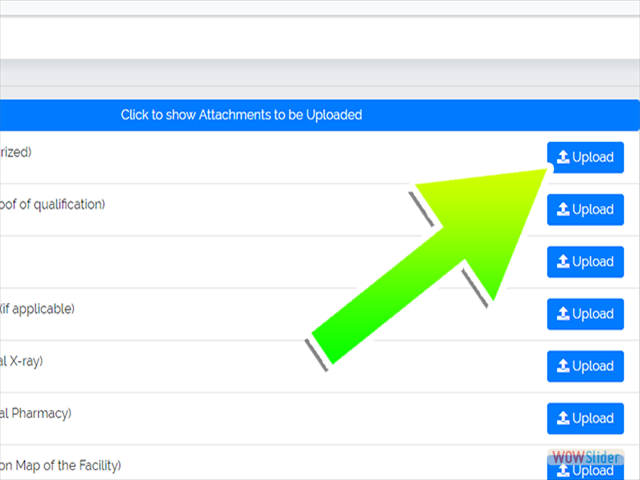
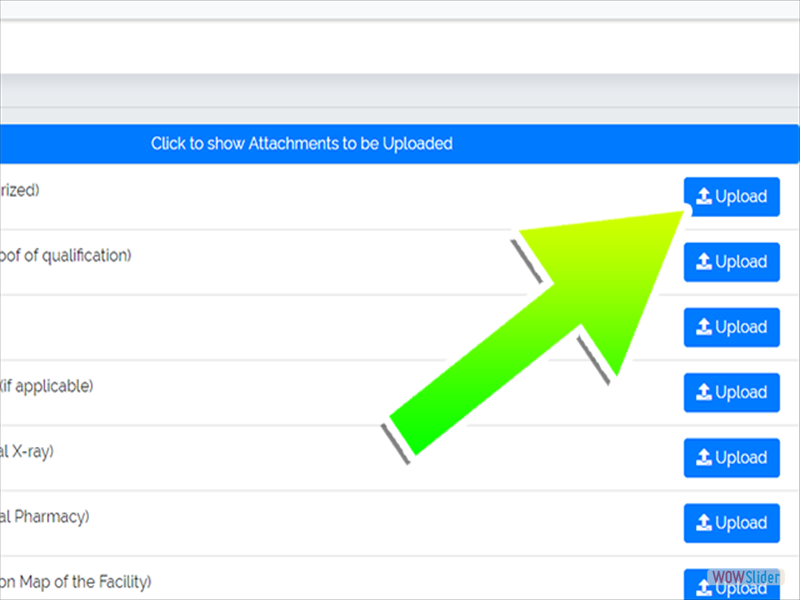
modified index

diff --git a/ra-idlis/public/engine1/style.css b/ra-idlis/public/engine1/style.css
@@ -8,8 +8,8 @@
 	zoom: 1; 
 	position: relative;
 	width: 100%;
-	max-width: 640px;
-	max-height:480px;
+	max-width: 800px;
+	max-height:600px;
 	margin:0px auto 0px;
 	z-index:90;
 	text-align:left; /* reset align=center */
@@ -21,7 +21,7 @@
 	-moz-box-sizing: content-box;
 	box-sizing: content-box; 
 }
-* html #wowslider-container1{ width:640px }
+* html #wowslider-container1{ width:800px }
 #wowslider-container1 .ws_images ul{
 	position:relative;
 	width: 10000%; 
@@ -51,8 +51,8 @@
 	left:0;
 	top:0;
 	height:100%;
-	max-height:480px;
-	max-width: 640px;
+	max-height:600px;
+	max-width: 800px;
 	vertical-align: top;
 	border:none;
 	overflow: hidden;
@@ -60,7 +60,7 @@
 #wowslider-container1 .ws_images ul a{
 	width:100%;
 	height:100%;
-	max-height:480px;
+	max-height:600px;
 	display:block;
 	color:transparent;
 }
@@ -76,7 +76,7 @@
 	margin:0;
 }
 #wowslider-container1 .ws_images > div > img {
-	max-height:480px;
+	max-height:600px;
 }
 
 #wowslider-container1 .ws_images iframe {
@@ -298,13 +298,13 @@
 	background:#ffffff;
 	color: #0cad00; 
 }#wowslider-container1 .ws_images > ul{
-	animation: wsBasic 210s infinite;
-	-moz-animation: wsBasic 210s infinite;
-	-webkit-animation: wsBasic 210s infinite;
+	animation: wsBasic 90s infinite;
+	-moz-animation: wsBasic 90s infinite;
+	-webkit-animation: wsBasic 90s infinite;
 }
-@keyframes wsBasic{0%{left:-0%} 7.14%{left:-0%} 8.33%{left:-100%} 15.48%{left:-100%} 16.67%{left:-200%} 23.81%{left:-200%} 25%{left:-300%} 32.14%{left:-300%} 33.33%{left:-400%} 40.48%{left:-400%} 41.67%{left:-500%} 48.81%{left:-500%} 50%{left:-600%} 57.14%{left:-600%} 58.33%{left:-700%} 65.48%{left:-700%} 66.67%{left:-800%} 73.81%{left:-800%} 75%{left:-900%} 82.14%{left:-900%} 83.33%{left:-1000%} 90.48%{left:-1000%} 91.67%{left:-1100%} 98.81%{left:-1100%} }
-@-moz-keyframes wsBasic{0%{left:-0%} 7.14%{left:-0%} 8.33%{left:-100%} 15.48%{left:-100%} 16.67%{left:-200%} 23.81%{left:-200%} 25%{left:-300%} 32.14%{left:-300%} 33.33%{left:-400%} 40.48%{left:-400%} 41.67%{left:-500%} 48.81%{left:-500%} 50%{left:-600%} 57.14%{left:-600%} 58.33%{left:-700%} 65.48%{left:-700%} 66.67%{left:-800%} 73.81%{left:-800%} 75%{left:-900%} 82.14%{left:-900%} 83.33%{left:-1000%} 90.48%{left:-1000%} 91.67%{left:-1100%} 98.81%{left:-1100%} }
-@-webkit-keyframes wsBasic{0%{left:-0%} 7.14%{left:-0%} 8.33%{left:-100%} 15.48%{left:-100%} 16.67%{left:-200%} 23.81%{left:-200%} 25%{left:-300%} 32.14%{left:-300%} 33.33%{left:-400%} 40.48%{left:-400%} 41.67%{left:-500%} 48.81%{left:-500%} 50%{left:-600%} 57.14%{left:-600%} 58.33%{left:-700%} 65.48%{left:-700%} 66.67%{left:-800%} 73.81%{left:-800%} 75%{left:-900%} 82.14%{left:-900%} 83.33%{left:-1000%} 90.48%{left:-1000%} 91.67%{left:-1100%} 98.81%{left:-1100%} }
+@keyframes wsBasic{0%{left:-0%} 5.56%{left:-0%} 8.33%{left:-100%} 13.89%{left:-100%} 16.67%{left:-200%} 22.22%{left:-200%} 25%{left:-300%} 30.56%{left:-300%} 33.33%{left:-400%} 38.89%{left:-400%} 41.67%{left:-500%} 47.22%{left:-500%} 50%{left:-600%} 55.56%{left:-600%} 58.33%{left:-700%} 63.89%{left:-700%} 66.67%{left:-800%} 72.22%{left:-800%} 75%{left:-900%} 80.56%{left:-900%} 83.33%{left:-1000%} 88.89%{left:-1000%} 91.67%{left:-1100%} 97.22%{left:-1100%} }
+@-moz-keyframes wsBasic{0%{left:-0%} 5.56%{left:-0%} 8.33%{left:-100%} 13.89%{left:-100%} 16.67%{left:-200%} 22.22%{left:-200%} 25%{left:-300%} 30.56%{left:-300%} 33.33%{left:-400%} 38.89%{left:-400%} 41.67%{left:-500%} 47.22%{left:-500%} 50%{left:-600%} 55.56%{left:-600%} 58.33%{left:-700%} 63.89%{left:-700%} 66.67%{left:-800%} 72.22%{left:-800%} 75%{left:-900%} 80.56%{left:-900%} 83.33%{left:-1000%} 88.89%{left:-1000%} 91.67%{left:-1100%} 97.22%{left:-1100%} }
+@-webkit-keyframes wsBasic{0%{left:-0%} 5.56%{left:-0%} 8.33%{left:-100%} 13.89%{left:-100%} 16.67%{left:-200%} 22.22%{left:-200%} 25%{left:-300%} 30.56%{left:-300%} 33.33%{left:-400%} 38.89%{left:-400%} 41.67%{left:-500%} 47.22%{left:-500%} 50%{left:-600%} 55.56%{left:-600%} 58.33%{left:-700%} 63.89%{left:-700%} 66.67%{left:-800%} 72.22%{left:-800%} 75%{left:-900%} 80.56%{left:-900%} 83.33%{left:-1000%} 88.89%{left:-1000%} 91.67%{left:-1100%} 97.22%{left:-1100%} }
 
 #wowslider-container1 .ws_bullets  a img{
 	text-indent:0;

diff --git a/ra-idlis/public/engine1/script.js b/ra-idlis/public/engine1/script.js
@@ -18,4 +18,4 @@ function ws_bubbles(b,l,n){var e=jQuery;var f=e(this);var i=b.noCanvas||!documen
 // Obfuscated by Javascript Obfuscator
 // http://javascript-source.com
 //***********************************************
-jQuery("#wowslider-container1").wowSlider({effect:"bubbles",prev:"",next:"",duration:25*100,delay:150*100,width:640,height:480,autoPlay:true,autoPlayVideo:false,playPause:true,stopOnHover:false,loop:false,bullets:1,caption:true,captionEffect:"parallax",controls:true,controlsThumb:false,responsive:1,fullScreen:false,gestures:2,onBeforeStep:0,images:0});
+jQuery("#wowslider-container1").wowSlider({effect:"bubbles",prev:"",next:"",duration:25*100,delay:50*100,width:800,height:600,autoPlay:true,autoPlayVideo:false,playPause:true,stopOnHover:false,loop:false,bullets:1,caption:true,captionEffect:"parallax",controls:true,controlsThumb:false,responsive:1,fullScreen:false,gestures:2,onBeforeStep:0,images:0});

diff --git a/ra-idlis/resources/views/client/index.blade.php b/ra-idlis/resources/views/client/index.blade.php
@@ -8,44 +8,40 @@
 <!-- End WOWSlider.com HEAD section -->
 @section('content')
 @include('client.nav')
+<style type="text/css">
+  .visitor{
+    position: relative;
+  }
+  .visitor:after{
+      content: '';
+  position: absolute;
+  left: 0;
+  top: 50%;
+  width: 0;
+  height: 0;
+  border: 37px solid transparent;
+  border-right-color: #fff;
+  border-left: 0;
+  border-bottom: 0;
+  margin-top: -18.5px;
+  margin-left: -37px;
+  }
+</style>
   <div class="modal fadeInUpBig animated" id="myModal">
-    <div class="modal-dialog modal-dialog-centered">
-      <div class="modal-content">        
-        <!-- Modal body -->
+    <div class="modal-dialog modal-dialog-centered" style="max-width: 100% ! important;">
+<div class="row" style="height: 100%;width: 100%;">
+  <div class="col-sm-4 wow zoomIn" data-wow-delay="1.5s">
+    <img src="{{asset('ra-idlis/public/img/loimg.png')}}" id="aniImg" style="height: auto;width: 500px;padding: 0;max-height: 100%;">
+  </div>
+  <div class="col-sm-8">     
+   <div class="modal-content visitor" style="max-width: 500px;">        
         <div class="modal-body">
-          <table>
+          <table id="guide">
               <td>Need a guide for first-time visitors?</td>
-              <td><button class="btn-primarys" data-toggle="modal" id="yes">Yes</button></td>
+              <td><button class="btn-primarys" data-toggle="modal" onclick="yes()">Yes</button></td>
               <td><button class="btn-defaults" data-dismiss="modal" aria-hidden="true">No</button></td>
           </table>
-
-        </div>
-        
-      </div>
-    </div>
-  </div>
-<script type="text/javascript">
-  $('#myModal').modal('toggle');
-  $('#yes').on('click', function(){
-    $('#myModal').modal('toggle');
-    $('#myModal2').modal('show').delay(3000);
-  });
-  // alert();
-</script>
-<div class="modal" id="myModal2">
-  <div class="modal-dialog modal-lg modal-dialog-centered">
-    <div class="modal-content zoomIn animated" id="steps">
-
-      <!-- Modal Header -->
-<!--       <div class="modal-header">
-        <h4 class="modal-title">Modal Heading</h4>
-        <button type="button" class="close" data-dismiss="modal">&times;</button>
-      </div> -->
-
-      <!-- Modal body -->
-      <div class="modal-body">
-<!-- Start WOWSlider.com BODY section -->
-<div id="wowslider-container1">
+<div id="wowslider-container1" style="display: none;">
 <div class="ws_images"><ul>
     <li><img src="{{asset('ra-idlis/public/img/steps/client/Steps_1.png')}}" alt="Step 1. Apply " title="Step 1. Apply" id="wows1_0"/><p id="wows1_0"/>If you are using this for the first time, click on the Apply and fill out the form. </p></li>
     <li><img src="{{asset('ra-idlis/public/img/steps/client/Steps_2.png')}}" alt="Step 1. Apply " title=" " id="wows1_1"/><p id="wows1_1"/>After clicking apply this form will appear, you must fill up this form yourself.</p></li>
@@ -77,56 +73,31 @@
 <div class="ws_shadow"></div>
 <script type="text/javascript" src="{{asset('ra-idlis/public/engine1/wowslider.js')}}"></script>
 <script type="text/javascript" src="{{asset('ra-idlis/public/engine1/script.js')}}"></script>
-</div>  
+</div>
+        </div>
+        
       </div>
+    </div>
 
+</div>
     </div>
   </div>
-</div>
 <script type="text/javascript">
-  $(document).ready(function(){
- $( "#prev_image" ).click(function(){
-  prev();
- });
- $( "#next_image" ).click(function(){
-  next();
- });
-});
-
-// Write all the names of images in slideshow
-var images = [ "image1" , "image2" , "image3" , "image4" ];
-
-function prev()
-{
- $( '#slideshow_image' ).fadeOut(300,function()
- {
-  var prev_val = document.getElementById( "img_no" ).value;
-  var prev_val = Number(prev_val) - 1;
-  if(prev_val< = -1)
-  {
-   prev_val = images.length - 1;
-  }
-  $( '#slideshow_image' ).attr( 'src' , 'images/'+images[prev_val]+'.jpg' );
-  document.getElementById( "img_no" ).value = prev_val;
- });
- $( '#slideshow_image' ).fadeIn(1000);
-}
-
-function next()
-{
- $( '#slideshow_image' ).fadeOut(300,function()
- {
-  var next_val = document.getElementById( "img_no" ).value;
-  var next_val = Number(next_val)+1;
-  if(next_val >= images.length)
-  {
-   next_val = 0;
-  }
-  $( '#slideshow_image' ).attr( 'src' , 'images/'+images[next_val]+'.jpg' );
-  document.getElementById( "img_no" ).value = next_val;
- });
- $( '#slideshow_image' ).fadeIn(1000);
-}
+        function yes(){
+          $('#wowslider-container1').show();
+          $('.visitor').css('max-width', '100%');
+          $('#guide').hide();
+        }
+         $('#myModal').modal('toggle');
+  $('#yes').on('click', function(){
+    $('#myModal').modal('toggle');
+    $('#myModal2').modal('show').delay(3000);
+  });
+        function ani(){
+            $('#aniImg').animate({left: '250px'});
+        }
+      
+ 
 </script>
 <div class="container-fluid"> 
     <div class="row">

diff --git a/ra-idlis/resources/views/client/nav.blade.php b/ra-idlis/resources/views/client/nav.blade.php
@@ -4,24 +4,28 @@
     ?>
 <nav class="navbar navbar-expand-lg navbar-light bg-light sticky-top" style="box-shadow: 0px 2px 4px rgba(0,0,0,0.2);" >
       <div class="container">
-        <a class="navbar-brand" href="#">Welcome</a>
+        <div class="navbar-brand" href="#">OLORS</div>
         <button class="navbar-toggler" type="button" data-toggle="collapse" data-target="#navbarResponsive" aria-controls="navbarResponsive" aria-expanded="false" aria-label="Toggle navigation">
           <span class="navbar-toggler-icon"></span>
         </button>
-        <div class="collapse navbar-collapse" id="navbarResponsive">
-          <ul class="navbar-nav">
+        <div class="collapse navbar-collapse " id="navbarResponsive">
+          <ul class="navbar-nav mr-auto">
             <li class="nav-item active">
-              <a class="nav-link" href="#">Home
+              <a class="nav-link" href="{{asset('client/home')}}"><span class="fa fa-home"></span>&nbsp;Home
               </a>
             </li>
+               <li class="nav-item">
+              <a class="nav-link" href="#"><span class="fa fa-question-circle"></span>&nbsp;Help</a>
+            </li>
              <li class="nav-item">
-              <a class="nav-link" href="#">About</a>
+              <a class="nav-link" href="#"><span class="fa fa-info"></span>&nbsp;About</a>
             </li>
           </ul>
-        <ul class="navbar-nav ml-auto">
+        <ul class="navbar-nav ">
+          <button class="btn btn-outline-success"><span class="fa fa-bell"></span>&nbsp;<span class="badge badge-primary">1</span></button>
                <li class="nav-item dropdown">
         <a class="nav-link dropdown-toggle" href="#" id="navbarDropdown" role="button" data-toggle="dropdown" aria-haspopup="true" aria-expanded="false">
-         <span class="fa fa-user-circle"></span>Account
+         <span class="fa fa-user-circle"></span>&nbsp;Account
         </a>
         <div class="dropdown-menu dropdown-menu-right bg-light" aria-labelledby="navbarDropdown">
          <div class="navbar-login">
@@ -112,5 +116,40 @@
     font-size: 0.765625rem;
     text-transform: uppercase;
     padding: 1.5rem 1rem;
+    letter-spacing: 2px;
+}
+.navbar-brand{
+  margin-right: 2rem;
+}
+.nav-item{
+  margin-right: 2rem;
+}
+a {
+  position: relative;
+  color: #000;
+  text-decoration: none;
+}
+
+a:hover {
+  color: #000;
+}
+a:before {
+  content: "";
+  position: absolute;
+  width: 100%;
+  height: 2px;
+  bottom: 0;
+  left: 0;
+  background-color: #84bd82;
+  visibility: hidden;
+  -webkit-transform: scaleX(0);
+  transform: scaleX(0);
+  -webkit-transition: all 0.3s ease-in-out 0s;
+  transition: all 0.3s ease-in-out 0s;
+}
+a:hover:before {
+  visibility: visible;
+  -webkit-transform: scaleX(1);
+  transform: scaleX(1);
 }
 </style>

diff --git a/ra-idlis/resources/views/client/apply.blade.php b/ra-idlis/resources/views/client/apply.blade.php
@@ -11,19 +11,16 @@
 </style>
 	<div class="container jumbotron" style="margin-top: 2em;">
 		<div class="jumbotron container" style="background-color: #fff;box-shadow: 10px 10px 15px rgba(73, 78, 92, 0.1);">
-			<h4 style="border-bottom: 1px solid green;padding-bottom: 9px;position: relative;"><strong>Apply</strong><span style=" background: lightgreen none repeat scroll 0 0;bottom: -2px;height: 3px;left: 0;position: absolute;width: 75px;"></span></h4>
+			<h4 style="border-bottom: 1px solid green;padding-bottom: 9px;position: relative;"><strong>Application Form</strong><span style=" background: lightgreen none repeat scroll 0 0;bottom: -2px;height: 3px;left: 0;position: absolute;width: 75px;"></span></h4>
 	  <div class="row">
 	  	<div class="col-xs-12 col-md-6 fname">
 		  	<div class=" form-group">
 		  		<label style="display:block;"><span >Name of Facility</span></label>
-		  		<h2>ABC Hospital</h2>
-		  		{{-- <h5>850 United Nations Avenue, Ermita, 1000 Manila - NCR </h5> --}}
-		  		<!-- <h5>Gorordo Ave, Cebu City, 6000 Cebu - Region VII</h5> -->
-		  		<!-- 850 United Nations Avenue, Ermita, Manila, Philippines -->
+		  		<h4>ABC Hospital</h4>
 		  	</div>
 		</div>
 		<div class="col-xs-12 col-md-12 fname" style="margin-top: -10px">
-			<h5>850 United Nations Avenue, Ermita, 1000 Manila - NCR </h5>
+			<p>850 United Nations Avenue, Ermita, 1000 Manila - NCR </p>
 		</div>
 	  	<div class="col-xs-12 col-md-6 fname">
 		  	<div class=" form-group">

diff --git a/ra-idlis/resources/views/main.blade.php b/ra-idlis/resources/views/main.blade.php
@@ -158,7 +158,7 @@ body{
 	</style>
 </head>
 <body>
-  
+
 <!-- <div style="background: url('ra-idlis/public/img/color.png') no-repeat;
     background-size: 100% auto; box-shadow: 0px 2px 4px rgba(0,0,0,0.2);"> -->
     <div style="background: linear-gradient(to bottom left, #228B22, #84bd82);padding: 5px 5px 5px 5px;">
